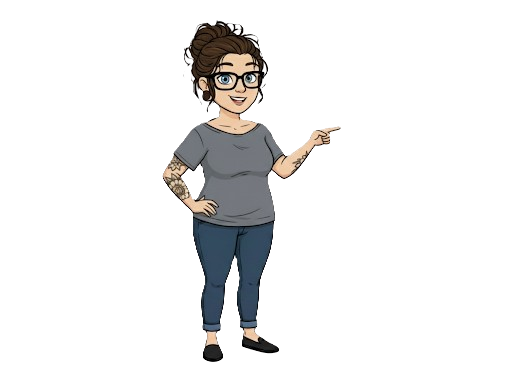
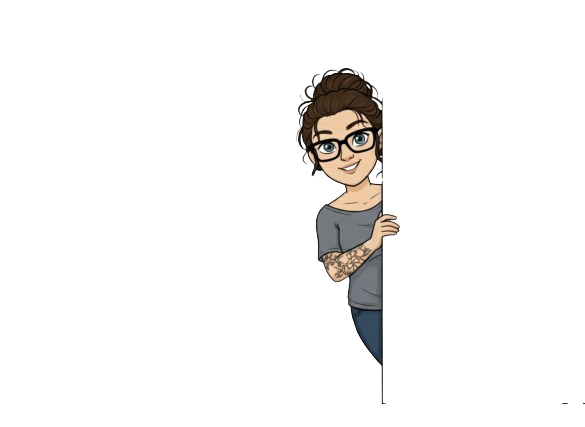
updated caricature

Changed region(s): [[0.3125, 0.0588, 0.6875, 0.9706]]

diff --git a/src/components/Mission.tsx b/src/components/Mission.tsx
@@ -17,13 +17,11 @@ export default function Mission() {
       <div className="absolute top-1/2 left-1/4 w-125 h-125 bg-brand-primary/10 rounded-full blur-[150px] -translate-y-1/2 pointer-events-none" />
 
       <div className="max-w-7xl mx-auto relative z-10">
-        {/* Changed gap from lg:gap-20 to lg:gap-0 to remove the invisible wall */}
         <div className="grid grid-cols-1 lg:grid-cols-2 gap-12 lg:gap-0 items-center">
 
           {/* 1. CHARACTER SIDE */}
-          {/* Added lg:-mr-20 to pull her over, and bumped the z-index so she stands in front */}
-          <div className="relative flex justify-center lg:justify-end order-2 lg:order-1 lg:-mr-20 z-30">
-            {/* Made the container much taller to give her room to grow, using linter-approved spacing */}
+          {/* Changed lg:-mr-20 to lg:-mr-40 to pull her much closer to the text */}
+          <div className="relative flex justify-center lg:justify-end order-2 lg:order-1 lg:-mr-40 z-30">
             <div className="relative w-full max-w-md lg:max-w-xl h-125 lg:h-187.5">
                {/* Grounding Shadow */}
                <div className="absolute bottom-0 left-1/2 -translate-x-1/2 w-3/4 h-8 bg-black blur-[20px] rounded-[100%] z-0" />
@@ -34,7 +32,6 @@ export default function Mission() {
                  fill
                  priority
                  sizes="(max-width: 768px) 100vw, 600px"
-                 // Added origin-bottom and scale-125 to force her to grow larger from the ground up
                  className={`object-contain object-bottom origin-bottom scale-110 lg:scale-125 relative z-10 drop-shadow-[0_0_30px_rgba(6,182,212,0.15)] transition-transform duration-700 hover:scale-[1.3] ${imgError ? 'hidden' : 'opacity-100'}`}
                  onError={() => setImgError(true)}
                />
@@ -49,7 +46,6 @@ export default function Mission() {
           </div>
 
           {/* 2. TEXT SIDE */}
-          {/* Added lg:pl-16 so the text has room to breathe now that she is standing so close */}
           <div className="space-y-8 relative z-20 order-1 lg:order-2 lg:pl-16">
             <h2 className="text-4xl md:text-5xl lg:text-6xl font-black text-white uppercase tracking-tight leading-none mb-8">
               {ORIGIN_STORY.TITLE}
